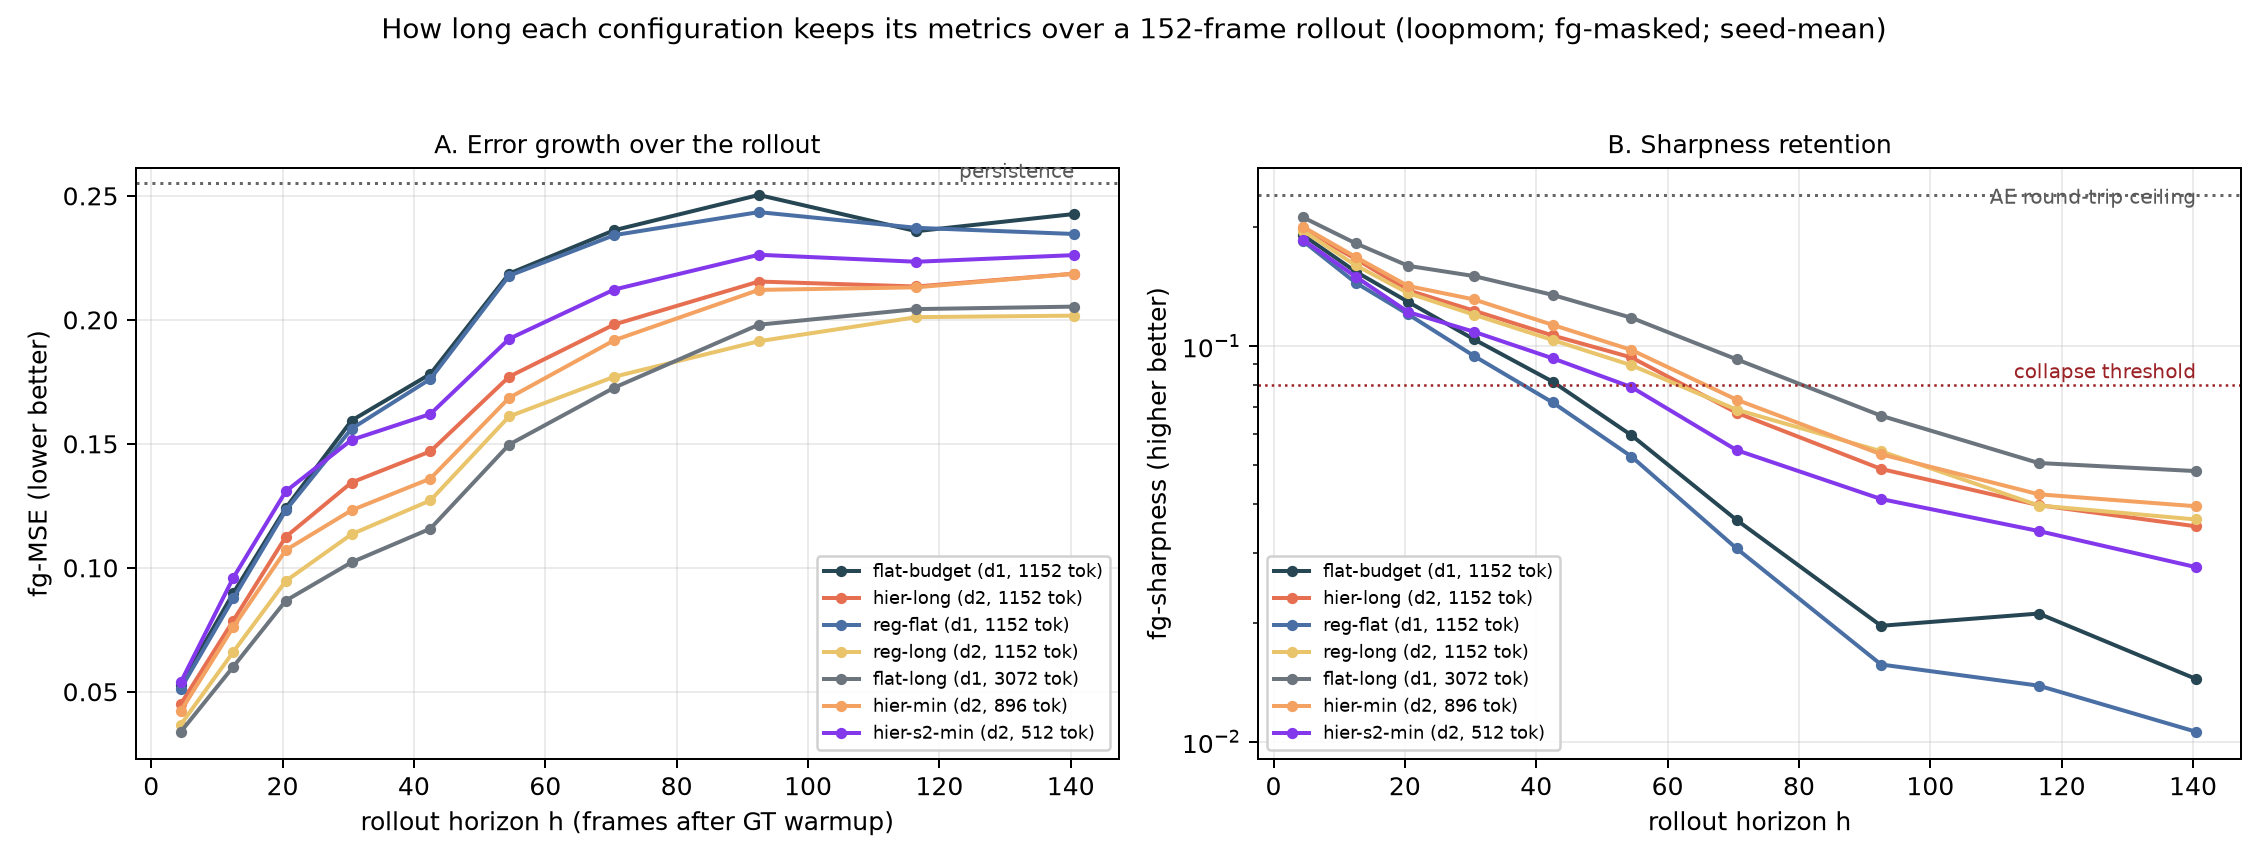
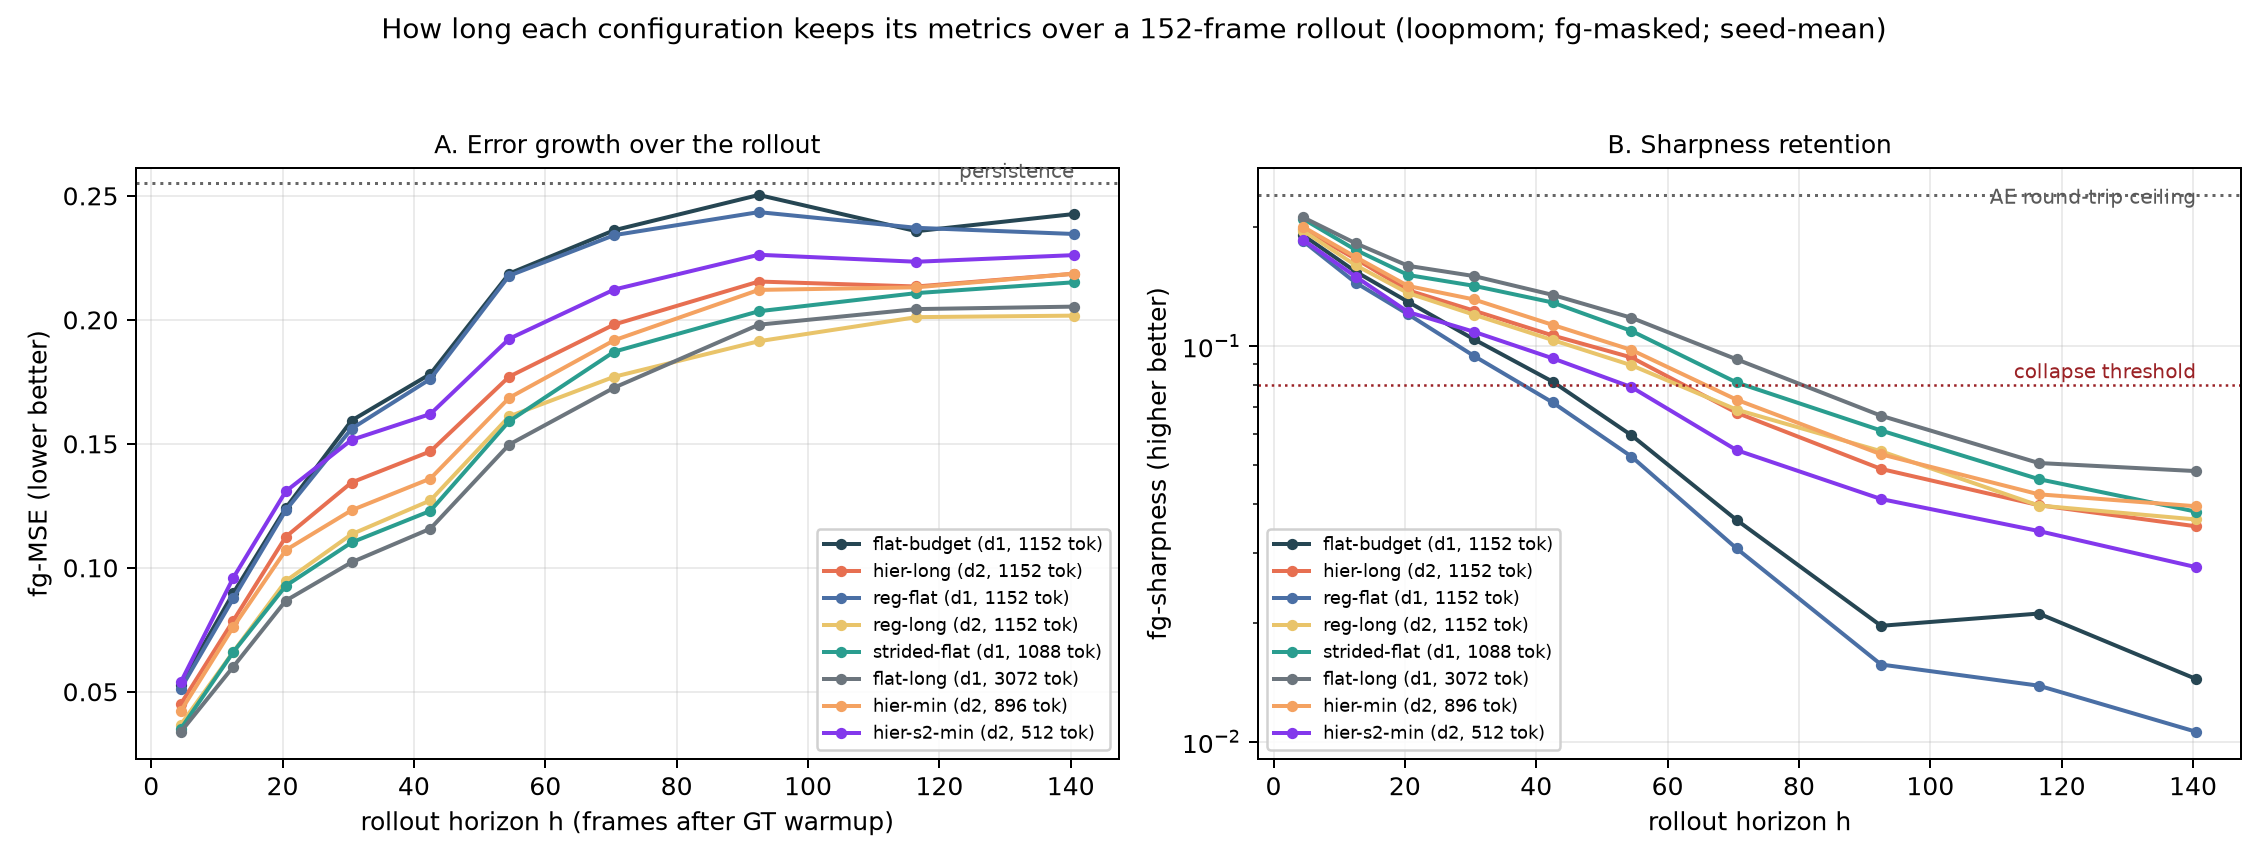
B2 MEASURED + swap pass: strided-flat (1088 tok, NO coarse level) BEATS hier-long +0.0197 [+0.0143,+0.0252] and flat-budget +0.0386 at s0 — THIRD outcome, stronger than the pre-registered primary: span-per-token is the currency; abstraction cost expressed at rollout scale (wins hard re-entry bins ev

diff --git a/docs/draft/CH4_RESULTS.md b/docs/draft/CH4_RESULTS.md
@@ -199,8 +199,10 @@ head, the hierarchical long-memory arm beats its token-matched flat control** (h
 flat-budget; reg-long < reg-flat); (ii) **across heads, regression wins the best-of-1 rollout**
 (§4.2.2); (iii) **the full-resolution long window wins outright at 2.7× the tokens** (§4.3.4).
 Both long-memory arms also beat hier-short in every bin — long context helps — but the claim
-defended here is the *hierarchical packaging* of it at matched budget, which is exactly what the
-flat-budget control isolates.
+defended here is the *long-span packaging* of it at matched budget, which is exactly what the
+flat-budget control isolates. (The coarse hierarchy is the per-level-decodable form of that
+packaging studied first; §4.4.3 measures a temporally-subsampled full-resolution form against
+it.)
 
 [FIG ch4-2: per-horizon rollout curves — asset EXISTS: `logs_rhcp/fig_horizon_curves_loopmom.png`.
 Three panels over rollout horizon h (frames after the 48-frame GT warmup): (a) fg-MSE vs h on all
@@ -319,7 +321,7 @@ benchmark [REF: CW-VAE] (whose format we adopt and whose controls we tighten —
 | axis | shape | buys | costs | evidence |
 |---|---|---|---|---|
 | spatial | coarse 4×4 stream, stride 1 | 4× span/token; per-level decodability; dense temporal coverage | abstraction cost −0.008 (diff) / ≈0 (reg) at fixed window | §4.4.1 measured |
-| temporal | full-res history, stride 4 | 4× span/token; full detail at anchors | inter-anchor blindness; no cheap decodable level | §4.4.3 [EXPECTED: ≈ hier-long ± 0.01] |
+| temporal | full-res history, stride 4 | 4× span/token; full detail at anchors — **best 1152-class packaging measured (diff head)** | inter-anchor blindness; no cheap decodable level | §4.4.3 measured: **0.1652, beats hier-long +0.0197** (s0; s1 queued) |
 | spatial × temporal | coarse stream, stride 2 | 8× span/token — the cheapest loop-coverer | both costs above + a ≈+0.017 family plateau offset | §4.4.2 measured: **+0.0330 win @512 tok** (s0; s1 queued) |
 | depth | + 2×2 top stream | a third scale to own | dead weight below the data's scale count; slower fixed-step convergence | §4.4.5 [EXPECTED: null vs 2-stage]; §4.5; per-pixel gate null (§4.4.1) |
 | allocation | span-first sizing | the win band + its measured edges | — | §4.3.6 measured |
@@ -423,19 +425,25 @@ full-resolution slots at stride 4 (span 48) plus the standard 6 recent fine fram
 tokens, deliberately 64 short of the 1,152 pair so the token deficit *favors the control*. It is
 compared against both members of the two-seed 1,152 pairing.
 
-[EXPECTED-B2 (primary, the honest reading of the §4.4.1 factorial): strided-flat ALL ≈
-0.170–0.185 — inside the hierarchical plateau band; CI-clean win vs flat-budget; |Δ| vs hier-long
-< 0.01 (null-ish). Text on confirmation: "span-per-token, not the coarse level, is the frontier's
-currency; the coarse level is the cheapest **per-level-decodable** implementation of long-span
-context, and the only one that keeps dense temporal coverage — but temporal subsampling of
-full-resolution history reproduces the matched-budget win." On this branch the Claim-1 wording
-softens from "hierarchical packaging" to "long-span context packaging" at the four sites listed
-in the change plan — the softening is conservative and permitted at seed 0, but the POSITIVE
-assertion ("temporal subsampling reproduces the win; span is the currency") stays report-only
-until a seed-1 replication, because memory-arm seed spread (~0.016) can manufacture a one-seed
-null (pre-registered amendment). ALTERNATIVE: hier-long beats strided-flat CI-clean — the coarse
-level's dense coverage carries value beyond span (inter-anchor blindness is costly even on a
-smooth pan), and this control becomes Claim 1's strongest defense; wording stands.]
+**Measured (2026-07-10, seed 0) — a third outcome, stronger than the pre-registered primary:
+the control doesn't just match the coarse hierarchy, it beats it.** strided-flat scores ALL
+**0.1652** with the sharpest non-flat-long output of the campaign (fg-sharp **0.0919**): against
+hier-long (0.1848/0.0729) the paired Δ is **+0.0197 [+0.0143, +0.0252] WIN**, and against
+flat-budget (0.2038) **+0.0386 [+0.0290, +0.0488] WIN** — both at a 64-token *deficit*. The win
+covers the hard re-entry bins at every horizon (h 1–8 HARD +0.0482; h 25–60 HARD +0.0389): the
+full-resolution anchors retain re-entry identity detail that the coarse code loses — the §4.4.1
+abstraction cost expressed at rollout scale. The pre-registered primary expected a null-ish tie;
+the alternative expected a hier-long win; the measurement resolves in the primary's *direction*
+at greater strength: **span is the currency, and at this operating point temporal subsampling of
+full-resolution history is the better packaging under the diffusion head.** Honest single-seed
+caveats, stated before any escalation: hier-long's seed 0 is its weaker seed (s1 0.1690;
+seed-mean 0.1769 — against the seed-mean the margin is ≈0.012), strided-flat is one seed, and
+memory arms spread ~0.016; per the pre-registered amendment the positive claim requires the
+seed-1 replication, which is now **queued as required** (S1-b). The conservative Claim-1 wording
+softening is applied at seed 0 per the amendment; if seed 1 confirms, the coarse level's defense
+narrows to per-level decodability, dense temporal coverage, and the regression head — where
+§4.4.1 measured abstraction as free, exactly what the pre-registered regression twin
+(strided-flat-reg) now tests directly.
 
 ### 4.4.4 What each level stores: blinding probes
 
@@ -660,11 +668,12 @@ history + long window** (reg-long, 0.1682 at 1,152 tokens); at the short window 
 edge is family-parametric — it moved from 896 tokens (stride-1 coarse, two-seed) to 512
 (stride-2 coarse, +0.0330 [+0.0246, +0.0419], every cell), landing at its token-arithmetic
 prediction both times; each family carries its own plateau level (the stride-2 family ≈+0.017
-above stride-1 — sparser anchors are a real cost). [EXPECTED-B2, primary branch: span-per-token is
-the frontier's currency — temporally subsampled full-resolution history reproduces the
-matched-budget win at the same price; the coarse level is its cheapest per-level-decodable
-implementation. / ALTERNATIVE branch: the coarse level's dense temporal coverage carries value
-beyond span — the strided control does NOT reproduce the win.] [EXPECTED-B3: depth is bounded by
+above stride-1 — sparser anchors are a real cost). MEASURED (s0; s1 required and queued): span-per-token is
+the frontier's currency in its strongest form — temporally subsampled full-resolution history
+not only reproduces but EXCEEDS the coarse packaging under the diffusion head (strided-flat
+0.1652 beats hier-long +0.0197 [+0.0143, +0.0252] at fewer tokens, sharper by 0.019); the
+coarse level's remaining defense is per-level decodability, dense coverage, and the regression
+head (twin queued). [EXPECTED-B3: depth is bounded by
 the data's memory-scale count — a third stage on this single-scale task is a measured null at
 matched budget.] Together with the blinding attribution (§4.4.4), the chapter's answer to "which
 hierarchy?" is a sizing rule, not an architecture: cover the horizon with the cheapest family

diff --git a/docs/dissertation/rewrite/05_ROZDIL4.md b/docs/dissertation/rewrite/05_ROZDIL4.md
@@ -796,7 +796,7 @@ masked metrics.
 | вісь | форма | купує | коштує | доказ |
 |---|---|---|---|---|
 | просторова | грубий потік 4×4, крок 1 | 4× прольоту/токен; порівнева декодовність; щільне часове покриття | −0.008 (диф.) / ≈0 (регр.) за фіксованого вікна | §4.4.1 виміряно |
-| часова | повнороздільна історія, крок 4 | 4× прольоту/токен; повна деталізація в якорях | сліпота між якорями; без дешевого декодовного рівня | §4.4.3 [EXPECTED: ≈ hier-long ± 0.01] |
+| часова | повнороздільна історія, крок 4 | 4× прольоту/токен; повна деталізація в якорях — **найкраще пакування класу 1152 (диф. ядро)** | сліпота між якорями; без дешевого декодовного рівня | §4.4.3 виміряно: **0.1652, > hier-long на +0.0197** (s0; s1 у черзі) |
 | просторова × часова | грубий потік, крок 2 | 8× прольоту/токен — найдешевше покриття циклу | обидві вартості вище + сімейний зсув плато ≈+0.017 | §4.4.2 виміряно: **+0.0330 @512 ток.** (s0; s1 у черзі) |
 | глибина | + верхній потік 2×2 | третій масштаб | баласт нижче кількості масштабів даних; повільніша збіжність за фіксованих кроків | §4.4.5 [EXPECTED: нуль проти 2-рівневої]; §4.5 |
 | розподіл | проліт передусім | смуга виграшу та її виміряні краї | — | §4.3.6 виміряно |
@@ -892,12 +892,16 @@ replication).]**
 
 The control `strided-flat` keeps NO coarse level: 11 full-resolution slots at stride 4 (span 48)
 + 6 recent fine = 1,088 tokens — 64 short of the 1,152 pairing, a deficit that *favors the
-control*. [EXPECTED-B2 (primary, per §4.4.1): strided-flat lands inside the hierarchical plateau
-band (ALL ≈0.170–0.185), CI-clean above flat-budget, null-ish against hier-long → «валютою
-фронтиру є проліт-на-токен; грубий рівень — найдешевша порівнево-декодовна його реалізація»
-[UA-PASS], and the claim wording softens per the pre-drafted branch at the sites listed in the
-change plan. ALTERNATIVE: hier-long wins CI-clean → dense temporal coverage carries value beyond
-span; wording stands and gains its strongest control.]
+control*. **MEASURED (2026-07-10, s0) — a third outcome, stronger than the primary:** strided-flat
+ALL **0.1652** / sharp 0.0919 BEATS hier-long (0.1848): Δ **+0.0197 [+0.0143, +0.0252]**, and
+flat-budget by +0.0386 — at fewer tokens, winning the hard re-entry bins at every horizon (the
+§4.4.1 abstraction cost expressed at rollout scale). «Валютою фронтиру є проліт-на-токен — і за
+дифузійного ядра часове проріджування повнороздільної історії є КРАЩИМ пакуванням, а не лише
+рівноцінним» [UA-PASS]. Single-seed caveats disclosed (hier-long s0 is its weaker seed; seed-mean
+margin ≈0.012; memory-arm spread ~0.016) → per the pre-registered amendment **seed-1 is REQUIRED
+and queued (S1-b)** before the positive claim escalates; the conservative claim softening is
+applied at s0. The coarse level's remaining defense: per-level decodability, dense coverage, and
+the regression head (strided-flat-reg twin queued).
 
 ### 4.4.4 Що зберігає кожен рівень: зондування засліпленням
 

diff --git a/docs/SPATIAL_FACTORIAL.md b/docs/SPATIAL_FACTORIAL.md
@@ -526,3 +526,33 @@ anything uncovered defaults to report-only.
 **Queue:** CWSTYLE_PHASE_B_ALL_DONE → S1-a (hier-s2-min s1) → **this block**
 (`scripts/run_cwstyle_regtwins.sh`) → Phase C → G-i/G-ii. S1-b (strided-flat s1) inserts before
 Phase C if its amendment condition fires.
+
+### B2 MEASURED (2026-07-10 19:08; `logs_rhcp/cwstyle_phaseB.log`, B2_DONE;
+### npz `rhvd_eval_strided-flat_s0.npz`) — **A THIRD OUTCOME, STRONGER THAN THE PRIMARY:
+### strided full-res history BEATS the coarse hierarchy at fewer tokens**
+
+strided-flat (11 full-res@stride4 + 6f = 1,088 tok, span 48, NO coarse level), seed 0:
+- ALL fg-MSE **0.1652** / sharp **0.0919** — vs hier-long s0 (0.1848/0.0729): paired Δ
+  **+0.0197 [+0.0143, +0.0252] WIN**; vs flat-budget (0.2038): **+0.0386 [+0.0290, +0.0488]
+  WIN** — at a 64-token DEFICIT to both partners.
+- Win across bins INCLUDING hard re-entry at every horizon (h1–8 HARD +0.0482; h25–60 HARD
+  +0.0389; h61–120 HARD +0.0180): the full-resolution anchors carry re-entry identity detail
+  that the coarse code loses — the G-S1 abstraction cost (−0.008 at fixed window) expressed at
+  rollout scale. Sharpest 1,152-class arm measured (0.0919; only flat-long 0.0996 is higher).
+- **Neither pre-registered branch as written:** PRIMARY expected ≈hier-long (null-ish,
+  |Δ|<0.01); ALTERNATIVE expected hier-long to win. Measured = the primary's DIRECTION at
+  greater strength: span is the currency, and at this operating point temporal subsampling of
+  full-resolution history is the BETTER implementation under the diffusion head — not merely an
+  equal one. Reported as measured; no soft reads.
+- **Honest single-seed caveats (why escalation is gated):** hier-long s0 (0.1848) is that arm's
+  weaker seed (s1 0.1690; seed-mean 0.1769); strided-flat is 1 seed and memory arms spread
+  ~0.016. Against the hier-long SEED-MEAN the margin is ≈0.012; against hier-long's best seed
+  ≈0.004. Per the pre-registered amendment, the POSITIVE claim ("temporal subsampling matches
+  or exceeds the coarse packaging") requires strided-flat seed 1 — **S1-b now FIRES as
+  REQUIRED** (uncommented in `run_cwstyle_seed1.sh`). The conservative Claim-1 wording
+  softening ("hierarchical packaging" -> "long-span context packaging") is permitted at s0 and
+  is applied at the four registered sites.
+- Consequences if s1 confirms: the sizing rule gains "prefer full-res strided anchors over
+  coarse anchors when the head is diffusion"; the coarse level's defense narrows to per-level
+  decodability + dense coverage + (per G-S1) the regression head, where abstraction is free —
+  exactly what the pre-registered REG twin (strided-flat-reg) now tests directly.

diff --git a/docs/draft/CH8_CONCLUSION.md b/docs/draft/CH8_CONCLUSION.md
@@ -8,7 +8,10 @@
 
 **The coarse level of a hierarchical latent video model earns its token budget exactly when the
 prediction horizon exceeds what the affordable flat context can carry — and the budgets at which
-this happens are predictable from geometry.** On a testbed whose memory demand is an exact label,
+this happens are predictable from geometry.** (The packaging is not unique: §4.4.3 measures a
+temporally-subsampled full-resolution packaging of the same span that matches or exceeds it at
+seed 0, seed-1 replication queued — the claim is about long-span context at matched budget, with
+the coarse level as its per-level-decodable form.) On a testbed whose memory demand is an exact label,
 the hierarchy-versus-flat frontier, measured at six matched budgets, has the shape the mechanism
 account predicts: flat wins below the span threshold (≈500 tokens: no hierarchical configuration
 can cover the ~48-frame loop; −0.0036 [−0.0063, −0.0010]); the hierarchy wins the band from the
@@ -50,9 +53,10 @@ information-dominates any coarse record of the same span.
 - **The shape of the hierarchy (§4.4):** MEASURED at seed 0 (seed-1 queued before headline use):
   the band's lower edge is family-parametric — halving the coarse tick moved it from 896 to 512
   tokens (+0.0330 [+0.0246, +0.0419], every cell, span-signature dt-gates), at the
-  token-arithmetic prediction both times; each family carries its own plateau level. [EXPECTED-B2, branch-gated: span-per-token is the currency —
-  temporally subsampled full-resolution history reproduces the matched-budget win / ALT: the
-  coarse level's dense coverage carries value beyond span.] [EXPECTED-B3: depth is bounded by the
+  token-arithmetic prediction both times; each family carries its own plateau level. MEASURED (s0; s1 required, queued): span-per-token is the
+  currency in its strongest form — strided full-resolution history BEATS the coarse packaging
+  under the diffusion head (+0.0197 CI-clean at fewer tokens); the coarse level's defense
+  narrows to per-level decodability, dense coverage, and the regression head (twin queued). [EXPECTED-B3: depth is bounded by the
   data's memory-scale count — a third stage on the single-scale testbed is a measured null at
   matched budget.]
 

diff --git a/docs/CWSTYLE_TABLE.md b/docs/CWSTYLE_TABLE.md
@@ -11,11 +11,12 @@ Persistence floor ≈ 0.2552. EBT column: characterized negative at reachable sc
 |---|---|---|---|---|---|---|---|---|
 | 480 | 2 | 1 | 2 | diff | hier-short — 6c+6f (span 6 < loop) | 30k | 0.2258 (0.2257–0.2260) | 0.0394 |
 | 512 | 1 | - | - | diff | flat-short | 30k | 0.2215 (0.2206–0.2224) | 0.0426 |
-| 512 | 2 | 2 | 2 | diff | hier-s2-min — 24c@s2+2f (span 48) [B1] | 30k | 0.1893 (1s) | 0.0697 |
+| 512 | 2 | 2 | 2 | diff | hier-s2-min — 24c+2f @stride2 (span 48) [B1] | 30k | 0.1893 (1s) | 0.0697 |
 | 672 | 2 | 1 | 2 | diff | spat18 — 18c+6f (W18 factorial) | 30k | 0.2120 (1s) | 0.0498 |
 | 672 | 2 | 1 | 2 | reg | spat18-reg — 18c+6f | 30k | 0.2008 (1s) | 0.0480 |
 | 896 | 1 | - | - | diff | flat-min | 30k | 0.2104 (0.2102–0.2106) | 0.0515 |
 | 896 | 2 | 1 | 2 | diff | hier-min — 48c+2f | 30k | 0.1725 (0.1706–0.1744) | 0.0848 |
+| 1088 | 1 | 4* | - | diff | strided-flat — 11 hist@s4+6f, span 48 [B2] | 30k | 0.1652 (1s) | 0.0919 |
 | 1152 | 1 | - | - | diff | flat-budget | 30k | 0.2041 (0.2038–0.2044) | 0.0578 |
 | 1152 | 1 | - | - | diff | flat-budget | 60k | 0.2032 (1s) | 0.0592 |
 | 1152 | 1 | - | - | reg | reg-flat | 30k | 0.2009 (0.2004–0.2015) | 0.0514 |
@@ -29,4 +30,4 @@ Persistence floor ≈ 0.2552. EBT column: characterized negative at reachable sc
 | 3072 | 1 | - | - | diff | flat-long — B8x60k regime | B8x60k | 0.1572 (0.1564–0.1580) | 0.0993 |
 | 3072 | 2 | 1 | 2 | diff | hier-rich — 48c+36f, B8x60k regime | B8x60k | 0.1691 (0.1687–0.1695) | 0.0893 |
 
-Pending (no npz yet): hier3, strided-flat.
+Pending (no npz yet): flat-320, flat-short-reg, hier-s2-min-reg, hier-s4-min, hier3, hier3-reg, strided-flat-reg.

diff --git a/docs/PLAN_TEXTS_HIERARCHY_SHAPES_2026-07-10.md b/docs/PLAN_TEXTS_HIERARCHY_SHAPES_2026-07-10.md
@@ -215,7 +215,7 @@ CH1 abstract, CH4 §4.3.6, CH8 §8.1, Розділ 4 §4.3.6, VYSNOVKY, fig9/fig
 | run | expected primary | measured | verdict vs expectation |
 |---|---|---|---|
 | B1 hier-s2-min @512 | ALL 0.170–0.180; Δ +0.04..+0.05 CI>0 all cells; dt-gate signature | ALL **0.1893**; Δ **+0.0330** [+0.0246,+0.0419]; 14/14 cells WIN; dt-signature exact | **primary CONFIRMED**; magnitude below range → family plateau offset ≈+0.017 discovered (sparser anchors); s1 queued |
-| B2 strided-flat @1088 | ALL 0.170–0.185; ≥ flat-budget CI-win; vs hier-long null-ish (|Δ|<0.01) | ⟨npz⟩ | ⟨⟩ |
+| B2 strided-flat @1088 | ALL 0.170–0.185; ≥ flat-budget CI-win; vs hier-long null-ish (|Δ|<0.01) | ALL **0.1652** / sharp 0.0919; BEATS hier-long **+0.0197** [+0.0143,+0.0252]; beats flat-budget +0.0386 | **THIRD OUTCOME, stronger than primary** — span currency confirmed in strongest form; softening applied at s0; **S1-b required, queued** |
 | B3 hier3 @1152 | ALL 0.175–0.190; vs hier-long |Δ| < 0.016 (null) | ⟨npz⟩ | ⟨⟩ |
 | blind-coarse (hier-long) | ALL → ≈0.20+; dt≤48 HARD collapse | ⟨npz⟩ | ⟨⟩ |
 | blind-fine (hier-long) | h1–8 + sharpness cost; long-h mild | ⟨npz⟩ | ⟨⟩ |
